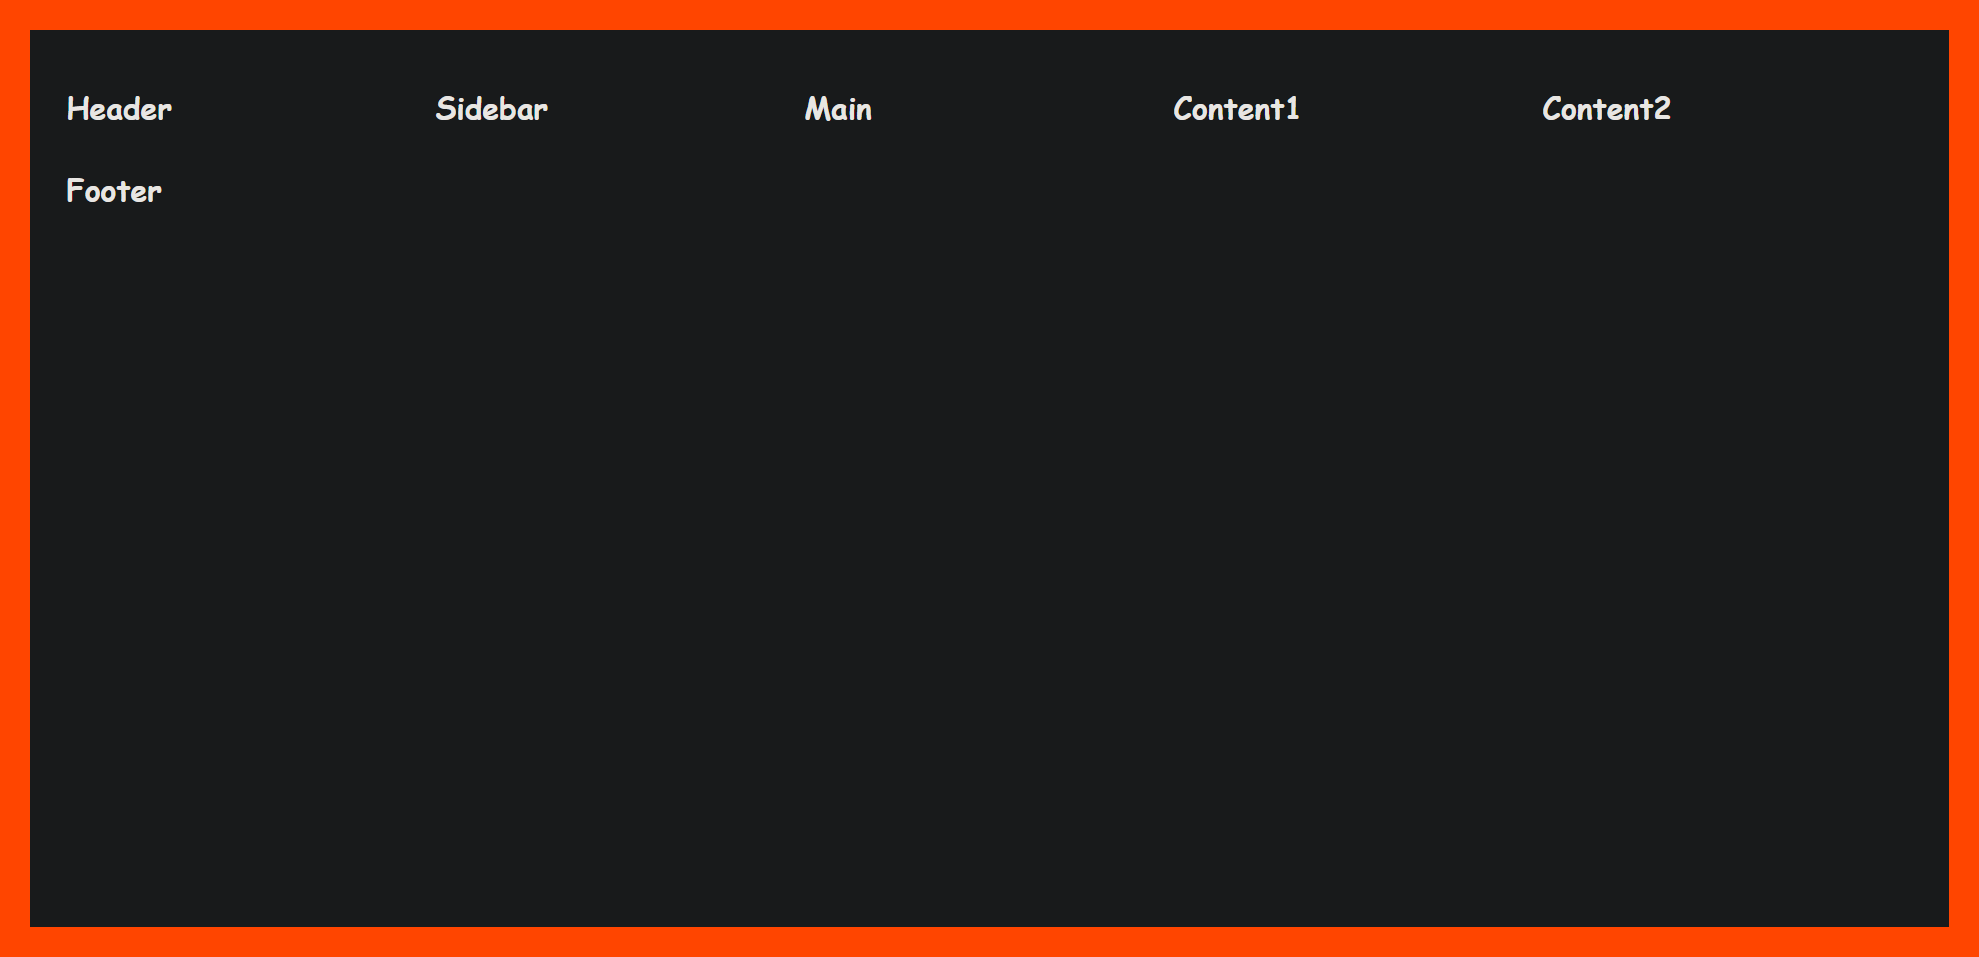
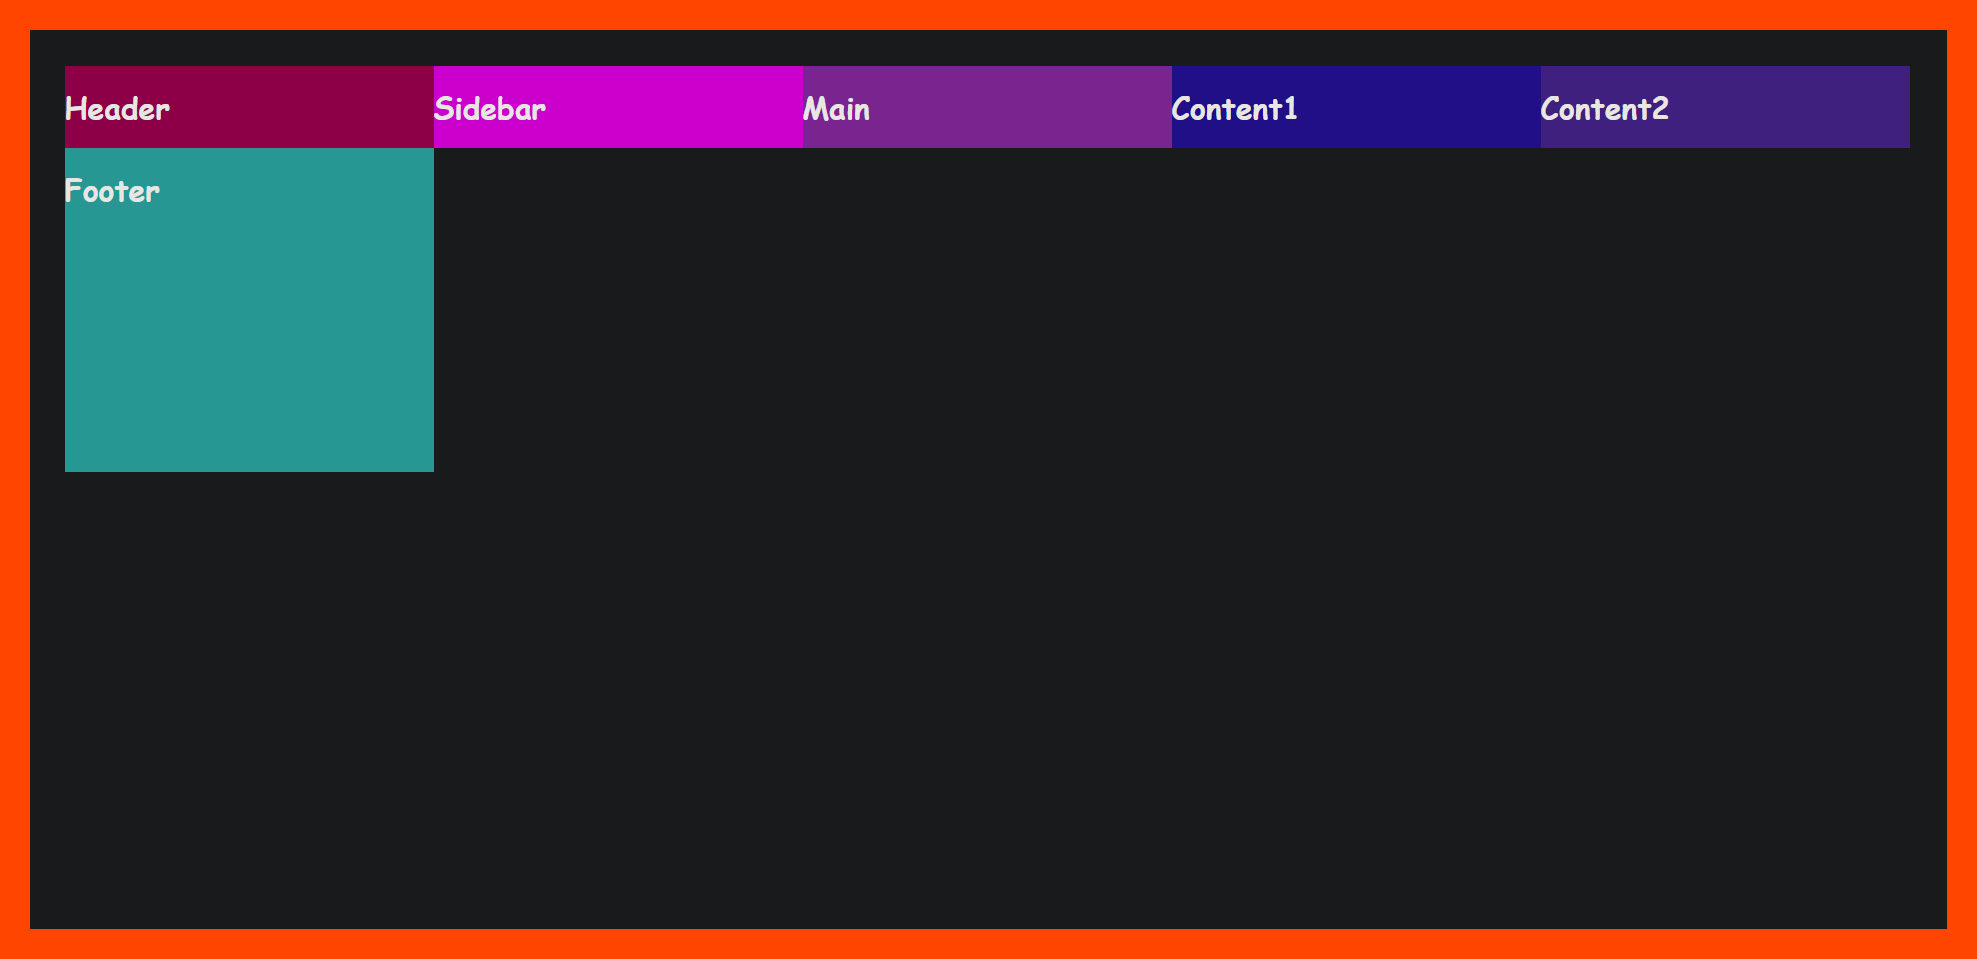
Modifications according to George's suggestions

Changed region(s): [[0.0309, 0.0606, 0.9874, 0.5152]]

diff --git a/index.html b/index.html
@@ -252,8 +252,16 @@
 			<section>
 				<p>Creating the Container and its Children</p>
 				<div class="container">
-					<img src="images/3.Creating the container and it's children.png" alt="Creating the container and it's children code">
-					<img src="images/3.Creating the container and it's children_2.png" alt="Creating the container and it's children">
+					<img src="images/3.1.Creating the container and it's children.png" alt="Creating the container and it's children">
+					<img src="images/3.2.Adding background color to the elements.png" alt="Adding background color to the elements">
+					<img src="images/3.3.Creating the container and it's children.png" alt="Creating the container and it's children code">
+				</div>
+			</section>
+
+			<section>
+				<p>Desktop preview</p>
+				<div>
+					<img src="images/2.desktop_grid.png" alt="Desktop grid preview">
 				</div>
 			</section>
 
@@ -266,6 +274,13 @@
 			</section>
 
 			<section>
+				<p>Desktop preview</p>
+				<div>
+					<img src="images/2.desktop_grid.png" alt="Desktop grid preview">
+				</div>
+			</section>			
+
+			<section>
 				<p>Creating rows</p>
 				<div>
 					<img src="images/5.Defining the rows.png" alt="Defining the rows">
@@ -274,50 +289,56 @@
 			</section>
 
 			<section>
-				<p>Adding background colour to the elements</p>
+				<p>Desktop preview</p>
 				<div>
-					<img src="images/6.Adding background color to the elements.png" alt="Adding background colour to the elements">
-					<img src="images/6.Adding background color to the elements_2.png" alt="Adding background colour to the elements code">
+					<img src="images/2.desktop_grid.png" alt="Desktop grid preview">
 				</div>
 			</section>
 
 			<section>
 				<p>Specifying the grid-template area</p>
 				<div>
-					<img src="images/7.Specifying grid-template-area.png" alt="Specifying the grid-template area">
-					<img src="images/7.Specifying grid-template-area_2.png" alt="Specifying the grid-template area code">
+					<img src="images/6.Specifying grid-template-area.png" alt="Specifying the grid-template area">
+					<img src="images/6.Specifying grid-template-area_2.png" alt="Specifying the grid-template area code">
 				</div>
 			</section>
 
 			<section>
 				<p>Assigning grid areas</p>
 				<div>
-					<img src="images/8.Assigning grid areas.png" alt="Assigning grid areas">
-					<img src="images/8.Assigning grid areas_2.png" alt="Assigning gris areas code">
+					<img src="images/7.Assigning grid areas.png" alt="Assigning grid areas">
+					<img src="images/7.Assigning grid areas_2.png" alt="Assigning gris areas code">
 				</div>
 			</section>
 
 			<section>
 				<p>Creating space between the elements</p>
 				<div>
-					<img src="images/9.Creating space between elements.png" alt="Creating space between the elements">
-					<img src="images/9.Creating space between elements_2.png" alt="Creating space between the elements code">
+					<img src="images/8.Creating space between elements.png" alt="Creating space between the elements">
+					<img src="images/8.Creating space between elements_2.png" alt="Creating space between the elements code">
 				</div>
 			</section>
 
 			<section>
 				<p>Styling the elements</p>
 				<div>
-					<img src="images/10.Styling the elements.png" alt="Styling the elements">
-					<img src="images/10.Styling the elements_2.png" alt="Styling the elements code">
+					<img src="images/9.Styling the elements.png" alt="Styling the elements">
+					<img src="images/9.Styling the elements_2.png" alt="Styling the elements code">
+				</div>
+			</section>
+
+			<section>
+				<p>Mobile preview</p>
+				<div>
+					<img src="images/2.mobile_grid.png" alt="">
 				</div>
 			</section>
 
 			<section>
 				<p>Adding a media query</p>
 				<div>
-					<img src="images/11.Adding a media query.png" alt="Adding a media query">
-					<img src="images/11.Adding a media query_2.png" alt="Adding a media query code">
+					<img src="images/10.Adding a media query.png" alt="Adding a media query">
+					<img src="images/10.Adding a media query_2.png" alt="Adding a media query code">
 				</div>
 			</section>
 
